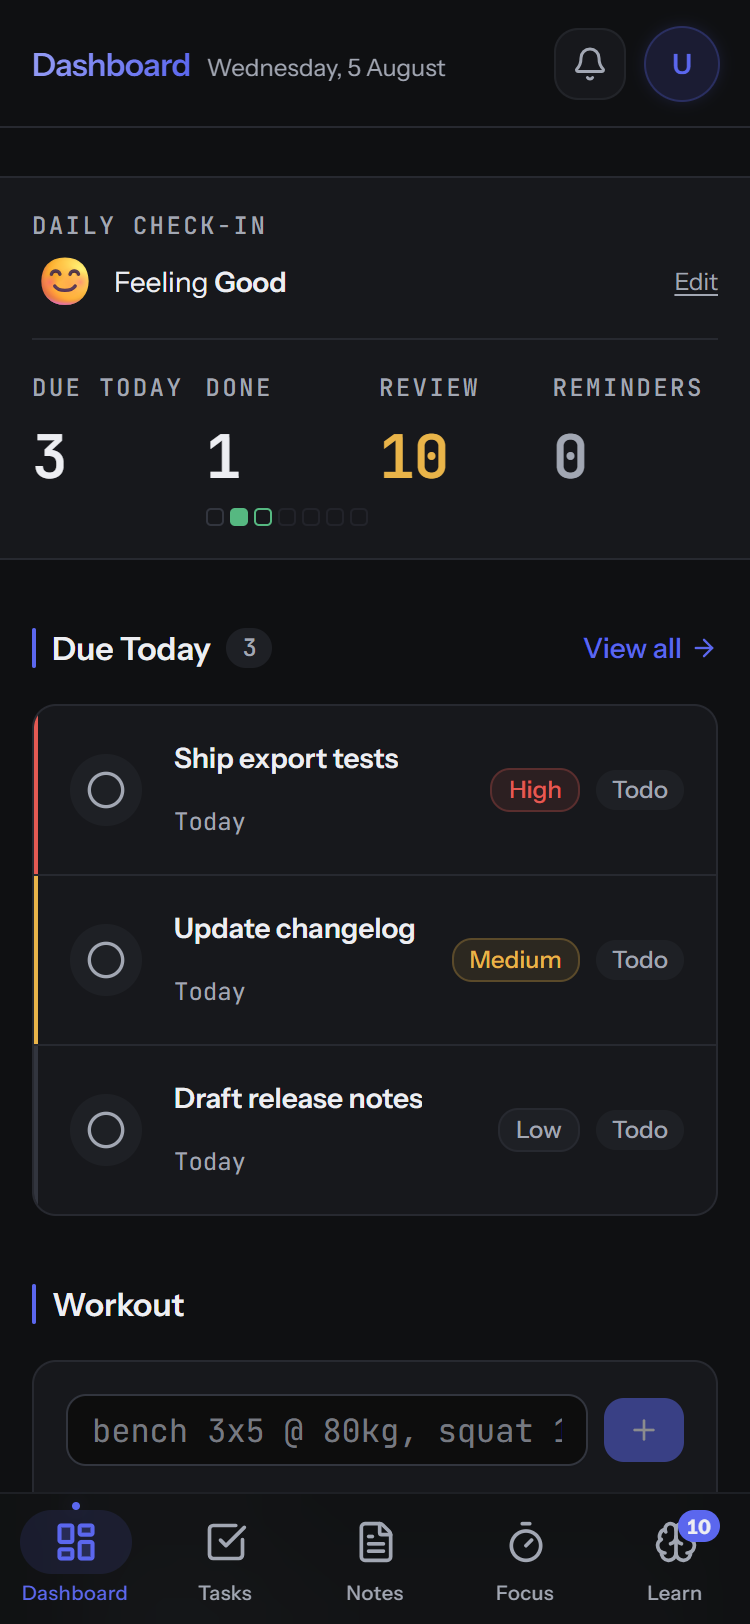
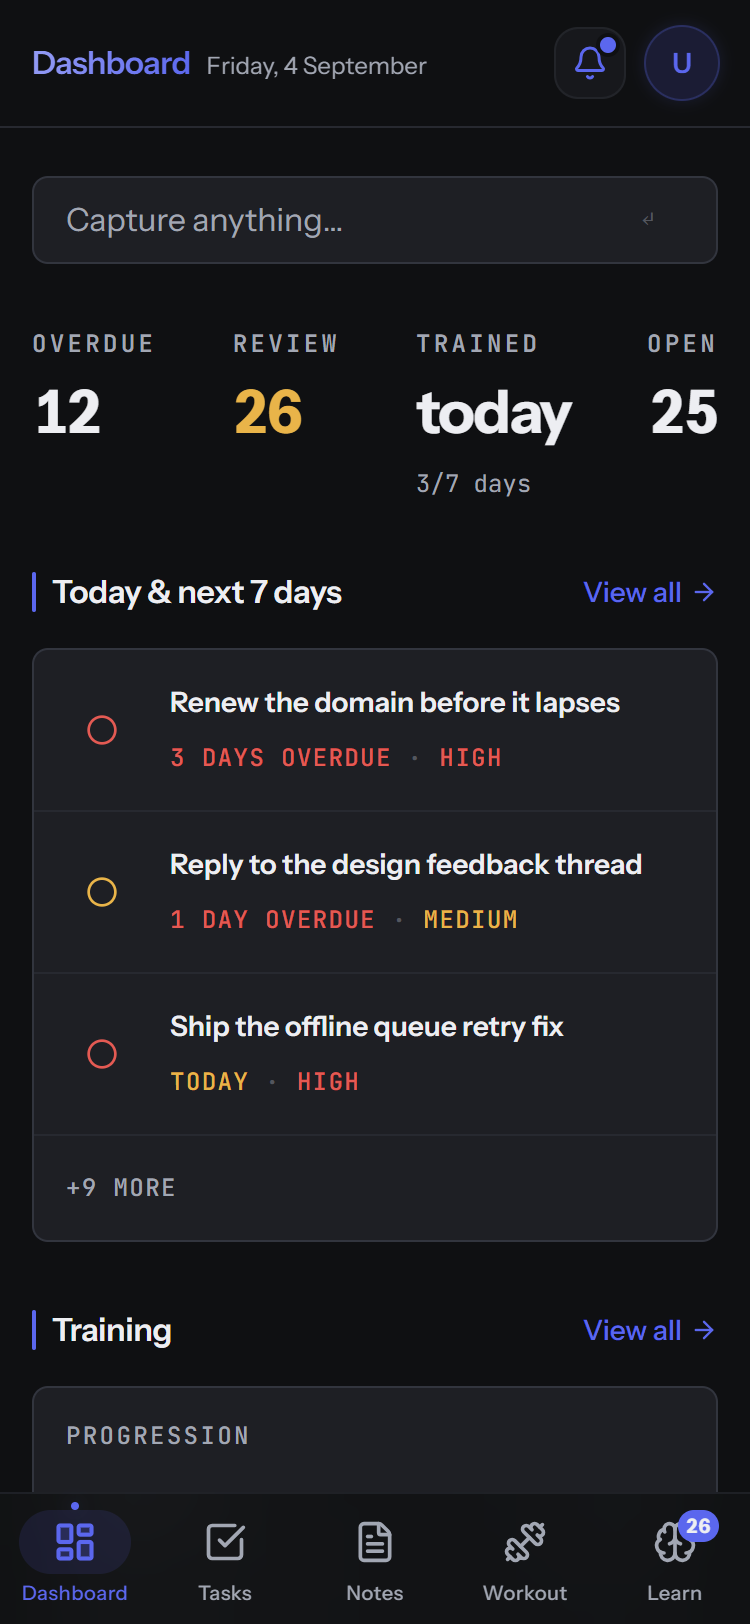
docs(readme): refresh four stale screenshots, add the four missing screens (#69)
* docs(readme): refresh four stale screenshots, add the four missing screens

The four existing screenshots were captured on 5 August and predate the
dashboard rebuild (#44) — dashboard.png still showed the daily check-in,
the DUE TODAY / DONE / REVIEW / REMINDERS counters and the Day Rail, none
of which exist any more. On a public repo a stale screenshot claims a
layout the app no longer has.

Re-shot all four against the deployed production build and added the four
screens that were never captured: notes, calendar, analytics and AI
flashcard generation. The README now shows 8 screens instead of 4.

All eight follow the existing convention: 375x812 CSS at deviceScaleFactor
2 (750x1624), driven through Chrome's Emulation.setDeviceMetricsOverride
with mobile:true rather than an OS window resize, which cannot reach a true
375px mobile layout. workout-logging.png is now full-height like the rest
instead of the previous 750x1070 crop.

The screens were populated with seeded rows, not real personal data. All
115 seeded rows were removed afterwards and every touched table verified
back at its pre-seed count.

* fix(analytics): stop the Focus Activity Y-axis clipping its tick labels

The chart's BarChart carried margin.left: -16 to reclaim gutter space.
Recharts lays the Y-axis band at [margin.left, margin.left + width], and
the SVG viewBox starts at x=0 — so a negative left paints the tick labels
outside the viewport and the glyphs are clipped at the SVG boundary.
[…]

diff --git a/components/srs/ProductivityPanel.tsx b/components/srs/ProductivityPanel.tsx
@@ -219,7 +219,12 @@ export function ProductivityPanel() {
             <ResponsiveContainer width="100%" height="100%">
               <BarChart
                 data={data.dailyFocus}
-                margin={{ top: 4, right: 8, bottom: 0, left: -16 }}
+                // left MUST NOT go negative to reclaim gutter. Recharts lays the
+                // Y-axis band at [margin.left, margin.left + width]; the SVG
+                // viewBox starts at x=0, so a negative left paints tick labels
+                // outside it and the glyphs are clipped. At -16 a 3-digit
+                // "120" started at x=-5.8 and rendered as "20".
+                margin={{ top: 4, right: 8, bottom: 0, left: 0 }}
               >
                 <defs>
                   <linearGradient id="focusBarGradient" x1="0" y1="0" x2="0" y2="1">
@@ -340,7 +345,11 @@ export function ProductivityPanel() {
             <ResponsiveContainer width="100%" height="100%">
               <LineChart
                 data={data.dailyTasks}
-                margin={{ top: 4, right: 8, bottom: 0, left: -16 }}
+                // Same rule as the Focus chart above: a negative left paints
+                // the Y-axis ticks outside the viewBox. Two-digit counts happen
+                // to fit here with 1.7px to spare, so it was latent rather than
+                // visible — a three-digit day would have clipped 5.8px.
+                margin={{ top: 4, right: 8, bottom: 0, left: 0 }}
               >
                 <CartesianGrid strokeDasharray="4 4" vertical={false} stroke="#1A1A1A" />
                 <XAxis

diff --git a/components/srs/AnalyticsPanel.tsx b/components/srs/AnalyticsPanel.tsx
@@ -140,7 +140,13 @@ function StatsContent({ streak }: { streak: number }) {
             <ResponsiveContainer width="100%" height="100%">
               <BarChart
                 data={data.dailyActivity}
-                margin={{ top: 4, right: 8, bottom: 0, left: -20 }}
+                // left MUST NOT go negative to reclaim gutter. Recharts lays the
+                // Y-axis band at [margin.left, margin.left + width]; the SVG
+                // viewBox starts at x=0, so a negative left paints tick labels
+                // outside it and the glyphs are clipped. At -20 with width 32
+                // the labels ended at x=4.7 and EVERY tick clipped — even a
+                // single-digit "0" lost 3.3px.
+                margin={{ top: 4, right: 8, bottom: 0, left: 0 }}
               >
                 <defs>
                   <linearGradient id="barGradient" x1="0" y1="0" x2="0" y2="1">

diff --git a/README.md b/README.md
@@ -14,6 +14,10 @@ Captured on a 375×812 mobile viewport at 2×, against a production build.
 | **Dashboard** — a capture field, four drift counters (overdue, review, trained, open), then the week's agenda, training and revisit notes as contained sections. | **Tasks** — status filter tabs above task rows carrying priority, status, and due date. |
 | <img src="docs/screenshots/workout-logging.png" alt="Workout logging" width="330"> | <img src="docs/screenshots/srs-review.png" alt="Flashcard review" width="330"> |
 | **Workout** — gym shorthand parsed into individual sets; identical consecutive sets collapse into one row with a set count. | **Review** — the answer side of a due card with the four SM-2 grades and the interval each one would schedule. |
+| <img src="docs/screenshots/notes.png" alt="Notes" width="330"> | <img src="docs/screenshots/calendar.png" alt="Calendar" width="330"> |
+| **Notes** — each card carries its kind (Spark or Revisit), a markdown excerpt and its tags, above full-text search. | **Calendar** — a bespoke IST-safe month grid; dots mark the days holding tasks or reminders, with the selected day expanded below. |
+| <img src="docs/screenshots/analytics.png" alt="Productivity analytics" width="330"> | <img src="docs/screenshots/ai-generation.png" alt="AI flashcard generation" width="330"> |
+| **Analytics** — this week measured against last, then focus minutes across the last 30 days and the split by category. | **AI generation** — flashcards drafted from a note, each one removable; nothing is written until the deck is confirmed. |
 
 ## What it does
 
